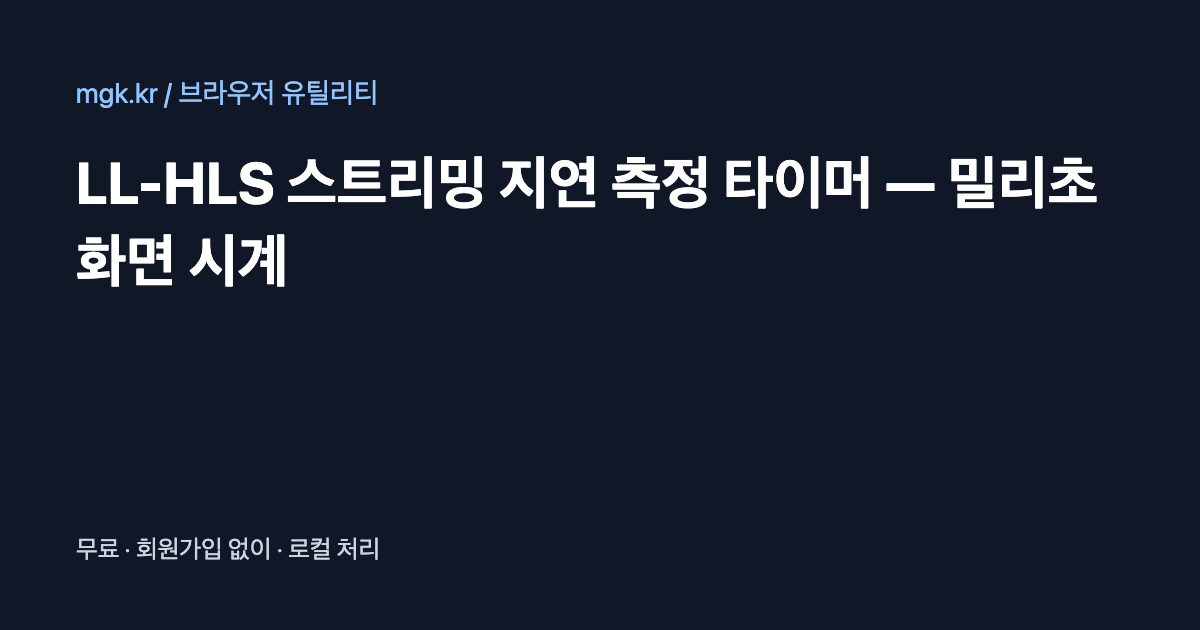
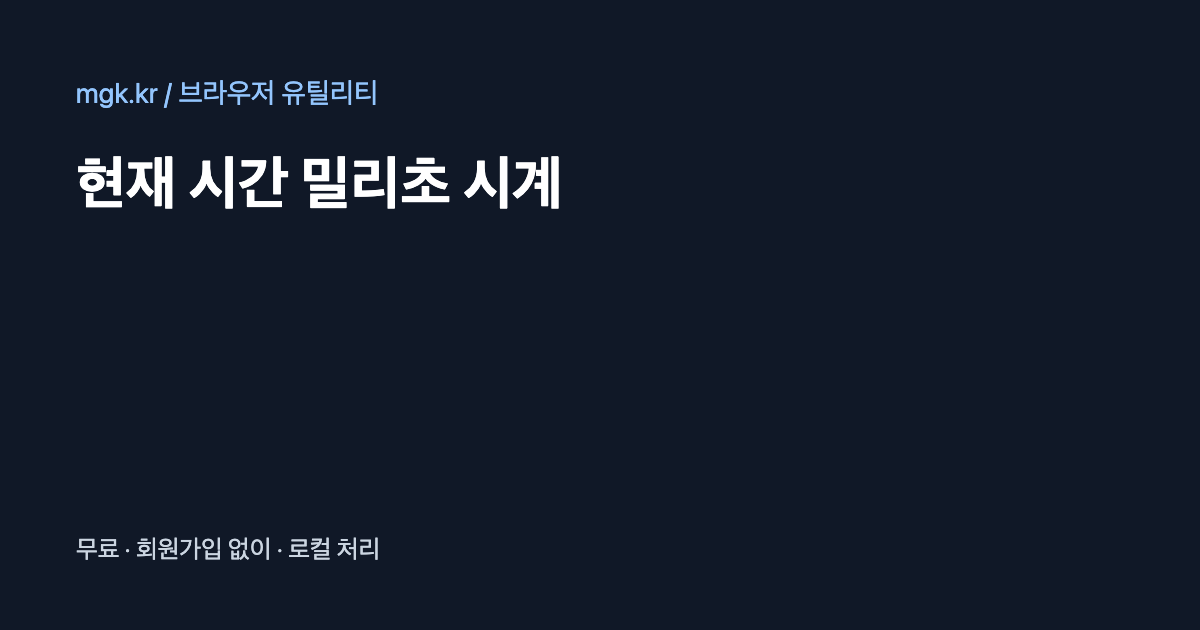
docs: rename timer to current time millisecond clock

Changed region(s): [[0.0617, 0.2413, 0.925, 0.3317], [0.0617, 0.3619, 0.2467, 0.4524]]

diff --git a/src/data/tool-guides.ts b/src/data/tool-guides.ts
@@ -46,7 +46,7 @@ export const guides = {
     faq: [['여러 도메인과 IP를 어떻게 조합하나요?', '모든 도메인과 모든 엔드포인트의 조합을 생성합니다. 입력 2개씩이면 각 출력에 4개 명령이 나옵니다.'], ['와일드카드 도메인은 어떻게 되나요?', '*.example.com은 wildcard-check.example.com으로 SNI를 보냅니다. 실제 서버가 이 호스트를 받아들이는지 직접 확인해야 하며 호스트 일치 검증을 보장하지 않습니다.']], related: ['securecrt-config-maker', 'sort'],
   },
   'timer': {
-    title: 'LL-HLS 스트리밍 지연 측정 타이머 — 밀리초 화면 시계', description: '현재 시각·경과 시간·60초 순환 카운터를 화면에 표시합니다. 카메라로 촬영한 화면과 스트림을 비교해 지연을 수동으로 측정하세요.',
+    title: '현재 시간 밀리초 시계', description: '현재 시각·경과 시간·60초 순환 카운터를 화면에 표시합니다. 카메라로 촬영한 화면과 스트림을 비교해 지연을 수동으로 측정하세요.',
     steps: ['페이지를 열면 기기 현재 시각과 경과 시간이 표시됩니다. 전체화면으로 전환해 카메라가 이 화면을 촬영하게 하세요.', '원본 화면과 재생 스트림의 같은 순간 시계 값을 비교하세요. 일시정지·재개는 경과 시간을 멈추거나 이어가고 리셋은 경과 시간을 0으로 돌립니다.'], input: '원본 화면: 12:00:05.250\n스트림 화면: 12:00:03.750', output: '수동 비교: 1.500초 지연', example: '표시 형식에 맞춘 비교 예입니다. 도구가 두 화면의 차이를 자동 계산하지는 않습니다. 리셋 후 경과 시간은 0.000s부터 다시 증가합니다.',
     limits: '밀리초 자릿수는 표시 해상도이며 측정 정확도를 보증하지 않습니다. 화면 갱신률, 카메라 프레임률, 네트워크와 기기 시계 차이가 영향을 줍니다. 백그라운드 탭에서는 화면 갱신이 제한될 수 있습니다.',
     faq: [['일시정지하면 현재 시각도 멈추나요?', '아니요. 경과 시간과 순환 카운터만 멈추며 현재 시각은 계속 갱신됩니다.'], ['순환 카운터는 무엇인가요?', '경과 밀리초를 60000으로 나눈 나머지를 다섯 자리로 보여 줍니다. 60초마다 돌아오므로 긴 구간 비교에는 현재 시각도 함께 보세요.']], related: ['unixtime'],

diff --git a/src/data/tool-catalog.ts b/src/data/tool-catalog.ts
@@ -8,7 +8,7 @@ const entries = [
   { key: 'large-pdf-to-divided-images', title: 'PDF A4 분할', description: '파일을 업로드하지 않고 브라우저에서 큰 PDF 페이지를 A4로 분할합니다.', tag: 'LOCAL · PDF' },
   { key: 'tsv-tool', title: 'TSV 탭 변환기', description: 'cat -T의 ^I 표시를 실제 탭 또는 줄바꿈으로 변환합니다.', tag: 'TEXT · TSV' },
   { key: 'base64', title: 'Base64 인코더', description: 'Unicode 텍스트를 표준·URL-safe Base64로 인코딩하고 디코딩합니다.', tag: 'UTF-8 · JSON' },
-  { key: 'timer', title: 'LL-HLS 타이머', description: '밀리초 벽시계와 경과 시간으로 스트리밍 지연을 측정합니다.', tag: 'TIMER' },
+  { key: 'timer', title: '현재 시간 밀리초 시계', description: '밀리초 벽시계와 경과 시간으로 스트리밍 지연을 측정합니다.', tag: 'TIMER' },
   { key: 'regex-tester', title: '정규식 테스트', description: '매치·캡처 그룹·치환 결과를 확인하고 오래 걸리는 패턴은 자동 중단합니다.', tag: 'TEXT · REGEXP' },
   { key: 'cron-explainer', title: 'Cron 설명', description: '5필드 cron을 한국어로 설명하고 시간대별 다음 실행 시각을 확인합니다.', tag: 'TIME · CRON' },
   { key: 'qr-generator', title: 'QR 코드 생성', description: '텍스트·URL을 로컬 QR로 만들고 PNG 또는 SVG로 다운로드합니다.', tag: 'QR · PNG · SVG' },
